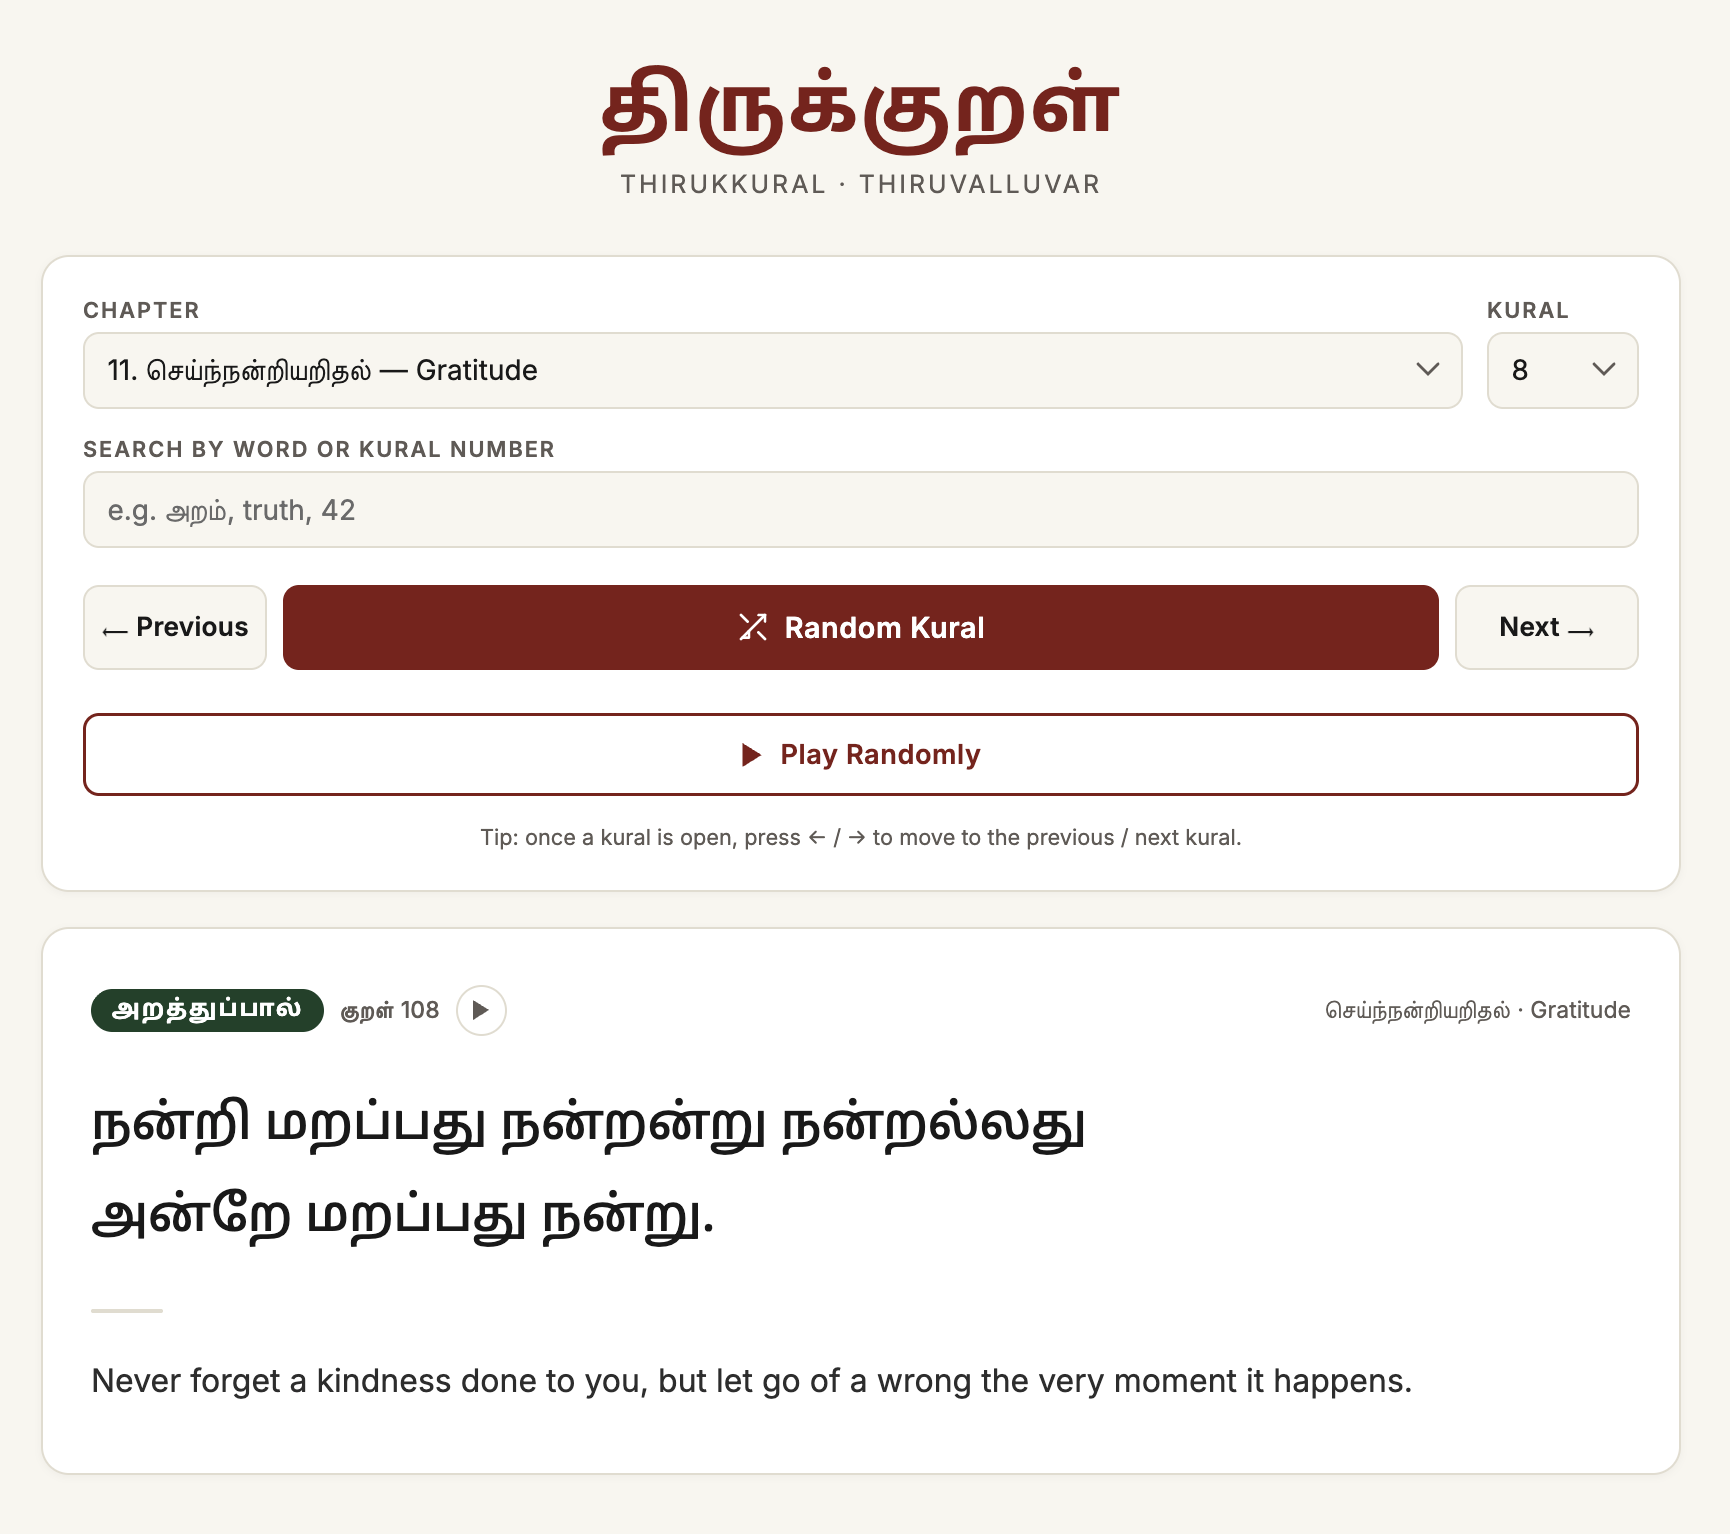
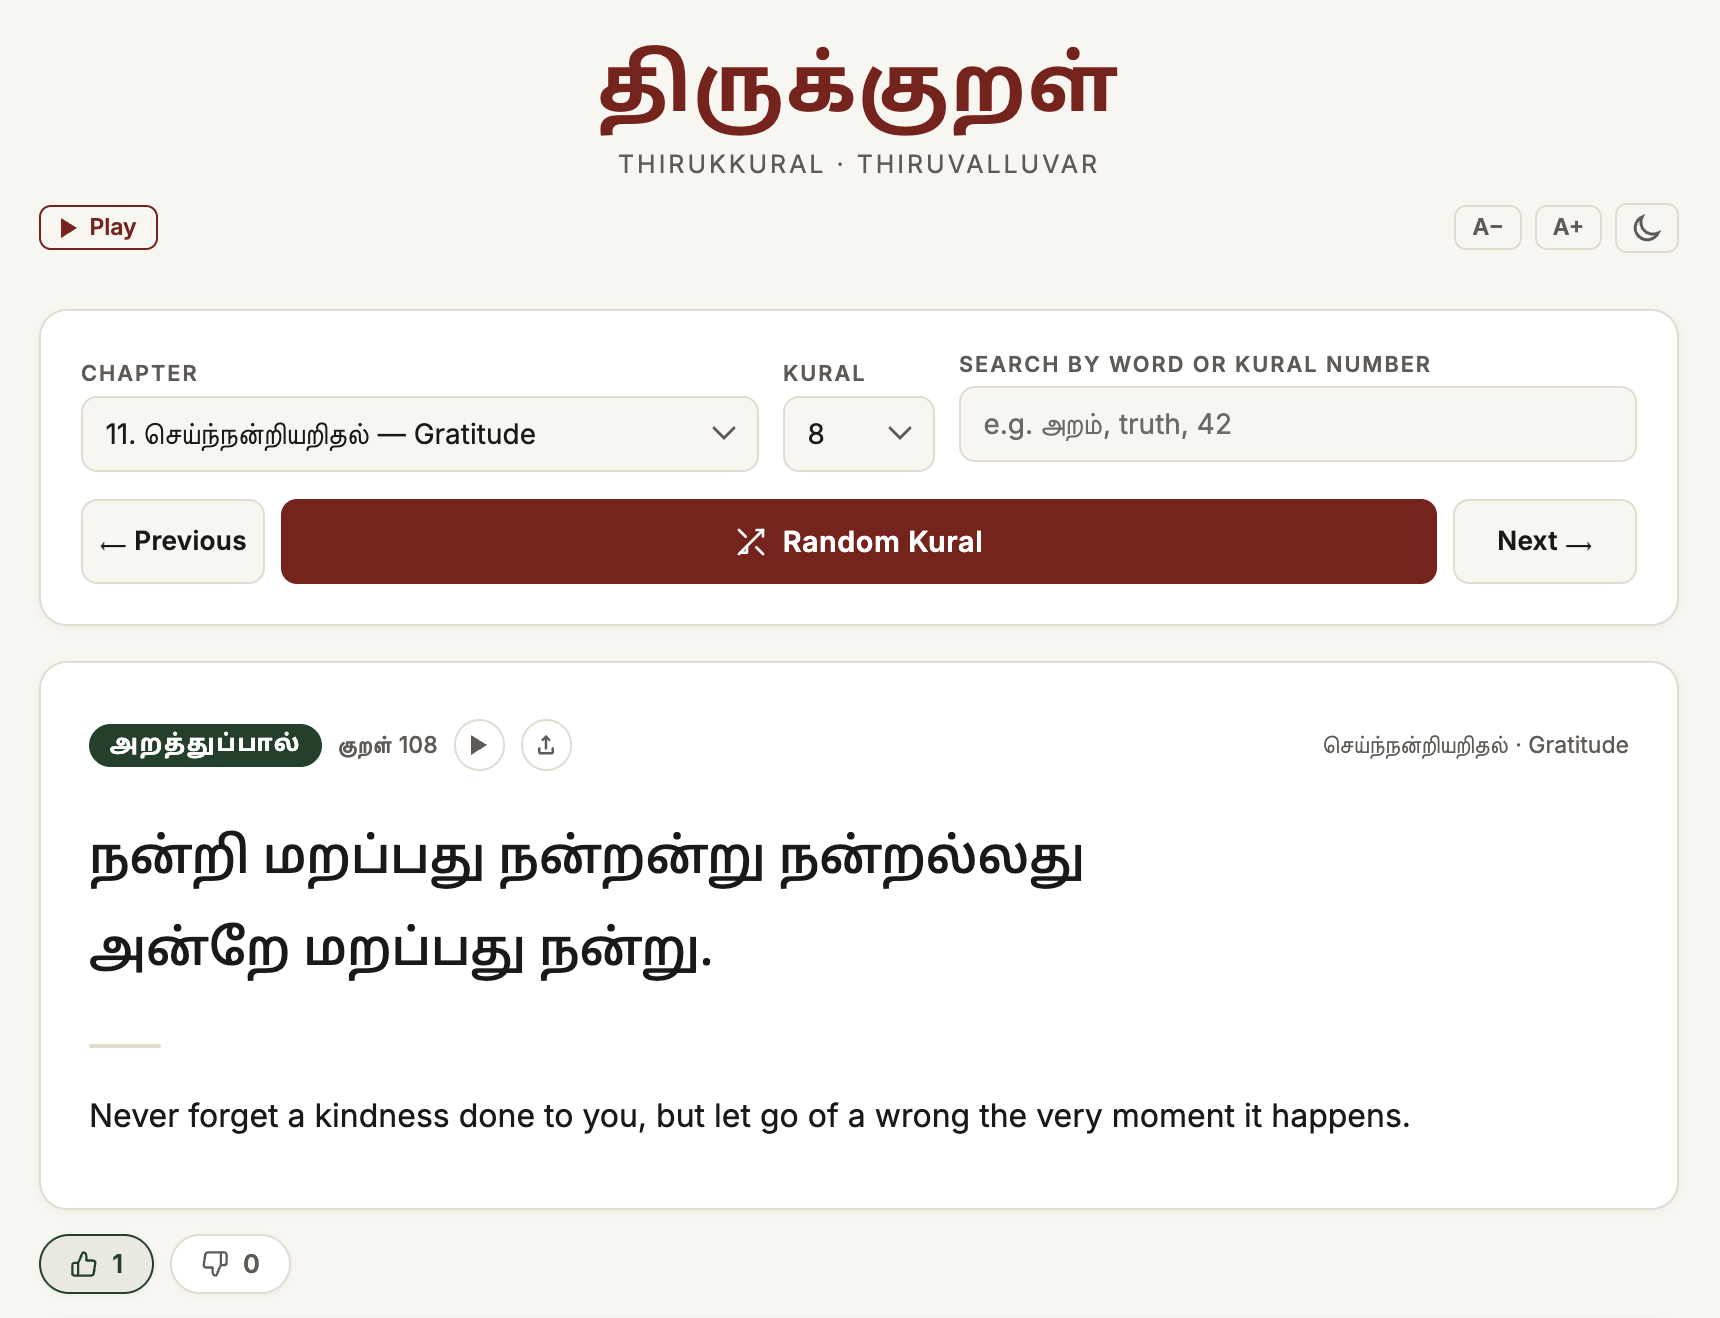
fix(ui): remove 'Be the first to comment' placeholder; update screenshot

diff --git a/index.html b/index.html
@@ -1204,7 +1204,7 @@
       const n = data.length;
       header.textContent = n > 0 ? `${n} comment${n === 1 ? '' : 's'}` : 'Comments';
       list.innerHTML = n === 0
-        ? '<div class="comments-empty">Be the first to comment.</div>'
+        ? ''
         : data.map(c => `<div class="comment-item"><span>${escapeHtml(c.body)}</span><time class="comment-time" datetime="${c.created_at}">${timeAgo(c.created_at)}</time></div>`).join('');
     }
 